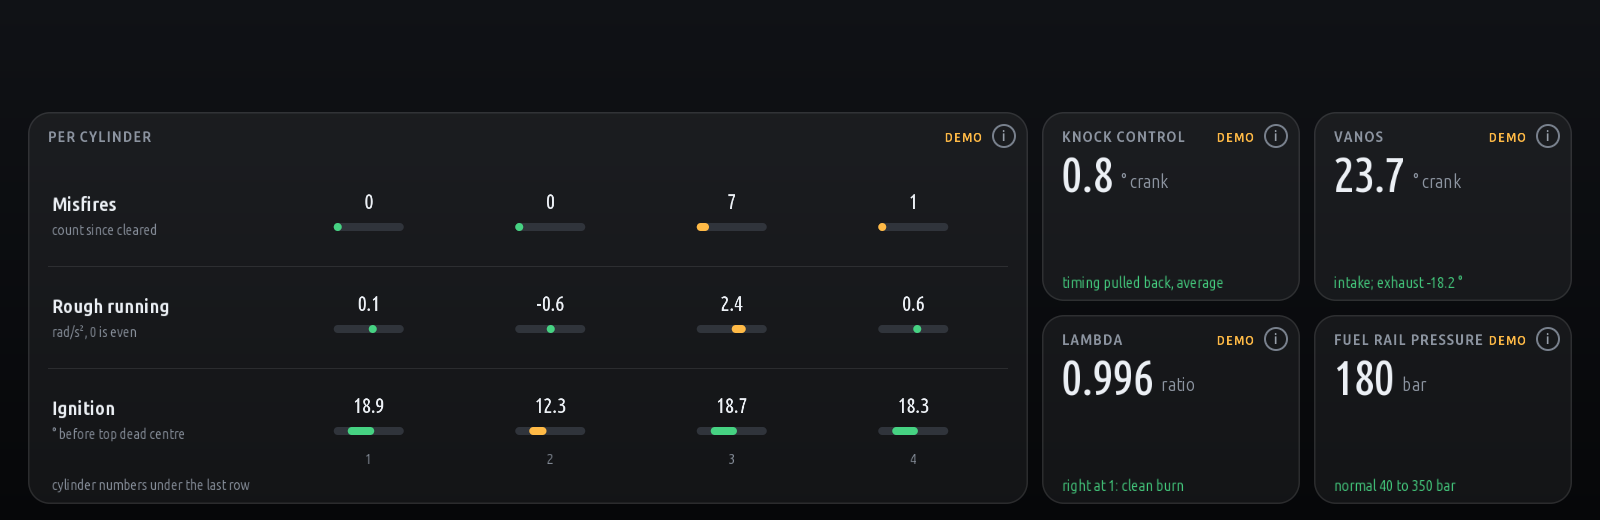
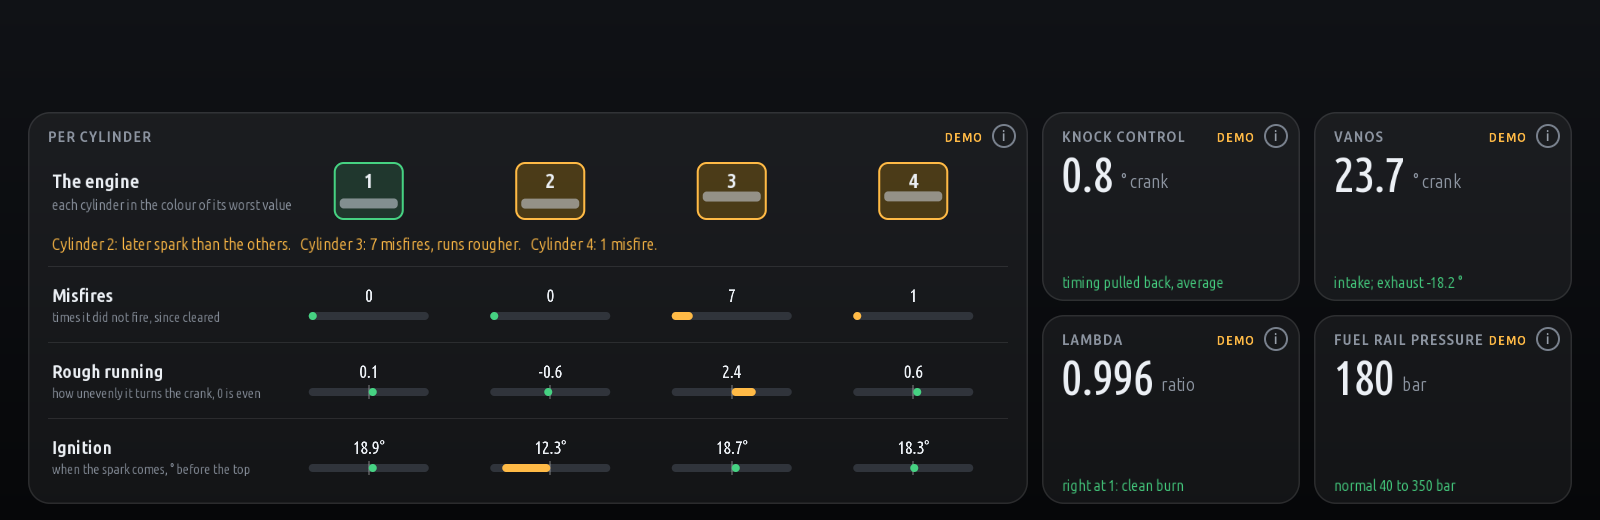
Health 1.2.17: the cylinders drawn as an engine, with a verdict
The Per cylinder card shows the engine first: a bore per cylinder,
numbered, each in the colour of its worst value with its piston going
up and down, then one line in plain words of what stands out (for
example: cylinder 3: 7 misfires, runs rougher). Each band says what its
value means; the ignition bars are measured from the other cylinders,
so the odd one sticks out.

diff --git a/apps/p96_health/view.js b/apps/p96_health/view.js
@@ -587,9 +587,9 @@ function fluids(cv, S, V, A, t) {
 const CYL_VIEWS = [['misfire', 'Misfires'], ['rough', 'Rough running'], ['ignition', 'Ignition']];
 const CYL_FMT = {
     // every value says what it is measured in (owner, 2026-11-27 00:02 and 00:04): the unit is in the title too
-    misfire: { label: 'Misfires per cylinder (count)', lo: 0, hi: 40, unit: 'misfires', unitLong: 'count since cleared', decimals: 0, info: 'misfire' },
-    rough: { label: 'Rough running per cylinder (rad/s²)', lo: -6, hi: 6, mid: 0, unit: 'rad/s²', unitLong: 'rad/s², 0 is even', decimals: 1, info: 'rough' },
-    ignition: { label: 'Ignition angle per cylinder (° before top dead centre)', lo: -10, hi: 40, mid: 0, unit: '° BTDC', unitLong: '° before top dead centre', decimals: 1, info: 'ignition' },
+    misfire: { label: 'Misfires per cylinder (count)', lo: 0, hi: 40, unit: 'misfires', unitLong: 'count since cleared', means: 'times it did not fire, since cleared', decimals: 0, info: 'misfire' },
+    rough: { label: 'Rough running per cylinder (rad/s²)', lo: -6, hi: 6, mid: 0, unit: 'rad/s²', unitLong: 'rad/s², 0 is even', means: 'how unevenly it turns the crank, 0 is even', decimals: 1, info: 'rough' },
+    ignition: { label: 'Ignition angle per cylinder (° before top dead centre)', lo: -10, hi: 40, mid: 0, unit: '° BTDC', unitLong: '° before top dead centre', means: 'when the spark comes, ° before the top', short: '°', decimals: 1, info: 'ignition' },
 };
 function engine(cv, S, V, A, t) {
     const cp = S.caps, p = S.engine || E.profile({}), ev = S.eng || {}, cyl = ev.cyl || {};
@@ -603,34 +603,65 @@ function engine(cv, S, V, A, t) {
     const hasRight = right.length || railOnly;
     const lw = views.length ? (hasRight ? 1000 : X1 - X0) : 0, rx = X0 + (lw ? lw + 14 : 0), rw = X1 - rx;
     if (views.length) {
-        // the three per-cylinder views on one card, one band each (owner, 2026-11-27 00:05: "sva tri na jednom ekranu"):
-        // a column per cylinder with its number and a bar, so 4, 6, 8 or 12 cylinders all fit (a V engine: a gap between
-        // the banks); each band names what it shows and its unit, its own info button
+        // the cylinders drawn as the engine has them (owner, 2026-11-27 02:48: more pictorial, with an explanation):
+        // a row of bores, each in the colour of its worst value, then one line in plain words of what stands out, then
+        // a band per value, its bars measured from the others so the odd one is the one that sticks out
         UI.card(cv, X0, TOP, lw, UI.hh(), 'Per cylinder', { info: info(CYL_FMT[views[0][0]].info) });
         const banks = E.cylinderBanks(p), nums = [].concat.apply([], banks.map((b) => b.cylinders));
         const n = Math.max(1, nums.length), gapB = banks.length > 1 ? 30 : 0, x0 = X0 + 250, x1 = X0 + lw - 24;
-        const cw = (x1 - x0 - gapB) / n, top = TOP + 52, bh = (UI.hh() - 52 - 34) / views.length;
-        views.forEach((vw, k) => {
-            const kind = vw[0], f = CYL_FMT[kind], vals = cyl[kind] || {}, y = top + k * bh;
-            if (k) cv.fillRect(X0 + 20, Math.round(y), lw - 40, 1, [255, 255, 255, 24]);
-            cv.text(vw[1], X0 + 24, y + bh / 2 - 4, 19, C.text, { font: 'bold', literal: true });
-            cv.text(f.unitLong, X0 + 24, y + bh / 2 + 20, 14, C.dim, { literal: true });
-            if (cv.target) cv.target(X0 + 12, y + 6, 220, bh - 12, () => A.cyl(kind), 'cylband|' + kind, 14);
-            nums.forEach((c, i) => {
-                const cx = x0 + i * cw + (banks.length > 1 && i >= banks[0].cylinders.length ? gapB : 0) + cw / 2;
-                const v = vals[c], st = M.cylStatus(kind, v, vals), col = st === 'bad' ? C.red : st === 'warm' ? C.amber : st === 'ok' ? C.green : C.dim;
-                cv.text(v == null ? '--' : v.toFixed(f.decimals), cx, y + bh / 2 - 6, n > 8 ? 17 : 21, v == null ? C.dim : C.text, { font: 'num', align: 'center', literal: true });
-                const tw = Math.min(70, cw - 14), ty = y + bh / 2 + 8, lo = f.lo, hi = f.hi, z = f.mid != null ? f.mid : lo;
-                cv.roundRect(cx - tw / 2, ty, tw, 8, 4, '#30343b');
-                if (v != null) {
-                    const at = (q) => cx - tw / 2 + tw * Math.max(0, Math.min(1, (q - lo) / (hi - lo)));
-                    const a0 = Math.min(at(z), at(v)), a1 = Math.max(at(z), at(v));
-                    cv.roundRect(a0, ty, Math.max(8, a1 - a0), 8, 4, col);
-                }
-                if (k === views.length - 1) cv.text(String(c), cx, y + bh - 6, 14, C.dim, { align: 'center', literal: true });
+        const cw = (x1 - x0 - gapB) / n, cxOf = (i) => x0 + i * cw + (banks.length > 1 && i >= banks[0].cylinders.length ? gapB : 0) + cw / 2;
+        const rank = { dim: 0, ok: 1, warm: 2, bad: 3 }, worst = {}, why = {};
+        views.forEach((vw) => {
+            const kind = vw[0], vals = cyl[kind] || {};
+            nums.forEach((c) => {
+                const st = M.cylStatus(kind, vals[c], vals);
+                if ((rank[st] || 0) > (rank[worst[c]] || 0)) worst[c] = st;
+                if (st === 'warm' || st === 'bad') (why[c] = why[c] || []).push(kind === 'misfire' ? vals[c] + (vals[c] === 1 ? ' misfire' : ' misfires') : kind === 'rough' ? 'runs rougher' : 'later spark than the others');
             });
         });
-        cv.text(banks.length > 1 ? 'cylinder numbers under the last row, bank 1 then bank 2' : 'cylinder numbers under the last row', X0 + 24, TOP + UI.hh() - 14, 14, C.dim, { literal: true });
+        // the engine: its bores in a block, numbered, a piston in each at the height of a turning crank
+        const by = TOP + 50, bh = 58, bw = Math.min(70, cw - 14);
+        cv.text(banks.length > 1 ? 'The engine, bank 1 and bank 2' : 'The engine', X0 + 24, by + 26, 19, C.text, { font: 'bold', literal: true });
+        cv.text('each cylinder in the colour of its worst value', X0 + 24, by + 48, 14, C.dim, { literal: true });
+        nums.forEach((c, i) => {
+            const cx = cxOf(i), st = worst[c] || 'dim', col = st === 'bad' ? C.red : st === 'warm' ? C.amber : st === 'ok' ? C.green : C.dim;
+            const fill = st === 'bad' ? [255, 70, 60, 60] : st === 'warm' ? [255, 176, 0, 55] : st === 'ok' ? [70, 210, 130, 40] : [60, 64, 72, 60];
+            cv.roundRect(cx - bw / 2, by, bw, bh, 10, fill);
+            cv.strokeRoundRect(cx - bw / 2, by, bw, bh, 10, 2, col);
+            const ph = 14 + 10 * (0.5 + 0.5 * Math.sin(t * 6 + i * Math.PI * 2 / n * (n > 4 ? 2 : 1)));
+            cv.roundRect(cx - bw / 2 + 6, by + bh - 6 - ph, bw - 12, 10, 4, [200, 206, 214, 150]);
+            cv.text(String(c), cx, by + 26, 20, C.text, { font: 'bold', align: 'center', literal: true });
+        });
+        // what stands out, in words
+        const odd = nums.filter((c) => why[c]);
+        const say = !Object.keys(worst).some((c) => worst[c] !== 'dim') ? 'Not read yet: the values come once the engine runs.'
+            : !odd.length ? 'All cylinders in step: none fires, turns or sparks differently from the others.'
+            : odd.slice(0, 3).map((c) => 'Cylinder ' + c + ': ' + why[c].join(', ')).join('.   ') + '.';
+        cv.text(say, X0 + 24, by + bh + 30, 16, odd.length ? C.amber : C.green, { literal: true });
+        const top = by + bh + 46, band = (TOP + UI.hh() - 10 - top) / views.length;
+        views.forEach((vw, k) => {
+            const kind = vw[0], f = CYL_FMT[kind], vals = cyl[kind] || {}, y = top + k * band;
+            cv.fillRect(X0 + 20, Math.round(y), lw - 40, 1, [255, 255, 255, 24]);
+            cv.text(vw[1], X0 + 24, y + band / 2 - 2, 18, C.text, { font: 'bold', literal: true });
+            cv.text(f.means, X0 + 24, y + band / 2 + 18, 13, C.dim, { literal: true });
+            if (cv.target) cv.target(X0 + 12, y + 4, 220, band - 8, () => A.cyl(kind), 'cylband|' + kind, 14);
+            const all = nums.map((c) => vals[c]).filter((v) => typeof v === 'number');
+            nums.forEach((c, i) => {
+                const cx = cxOf(i), v = vals[c], st = M.cylStatus(kind, v, vals), col = st === 'bad' ? C.red : st === 'warm' ? C.amber : st === 'ok' ? C.green : C.dim;
+                cv.text(v == null ? '--' : v.toFixed(f.decimals) + (f.short || ''), cx, y + band / 2 - 2, n > 8 ? 15 : 18, v == null ? C.dim : C.text, { font: 'num', align: 'center', literal: true });
+                // the bar: misfires from 0; rough running from even (0); the ignition angle from the others' middle
+                const tw = Math.min(120, cw - 24), ty = y + band / 2 + 8;
+                const others = all.filter((x, j) => j !== nums.indexOf(c)).sort((a, b) => a - b), mid = others.length ? others[Math.floor(others.length / 2)] : v;
+                const lo = kind === 'ignition' ? -8 : f.lo, hi = kind === 'ignition' ? 8 : f.hi, val = kind === 'ignition' && v != null ? v - mid : v;
+                cv.roundRect(cx - tw / 2, ty, tw, 8, 4, '#30343b');
+                if (lo < 0) cv.fillRect(Math.round(cx) - 1, ty - 3, 2, 14, [255, 255, 255, 60]);
+                if (val != null) {
+                    const at = (q) => cx - tw / 2 + tw * Math.max(0, Math.min(1, (q - lo) / (hi - lo))), z = lo < 0 ? 0 : lo;
+                    const a0 = Math.min(at(z), at(val)), a1 = Math.max(at(z), at(val));
+                    cv.roundRect(a0, ty, Math.max(8, a1 - a0), 8, 4, col);
+                }
+            });
+        });
         void V;
     }
     if (railOnly) {
